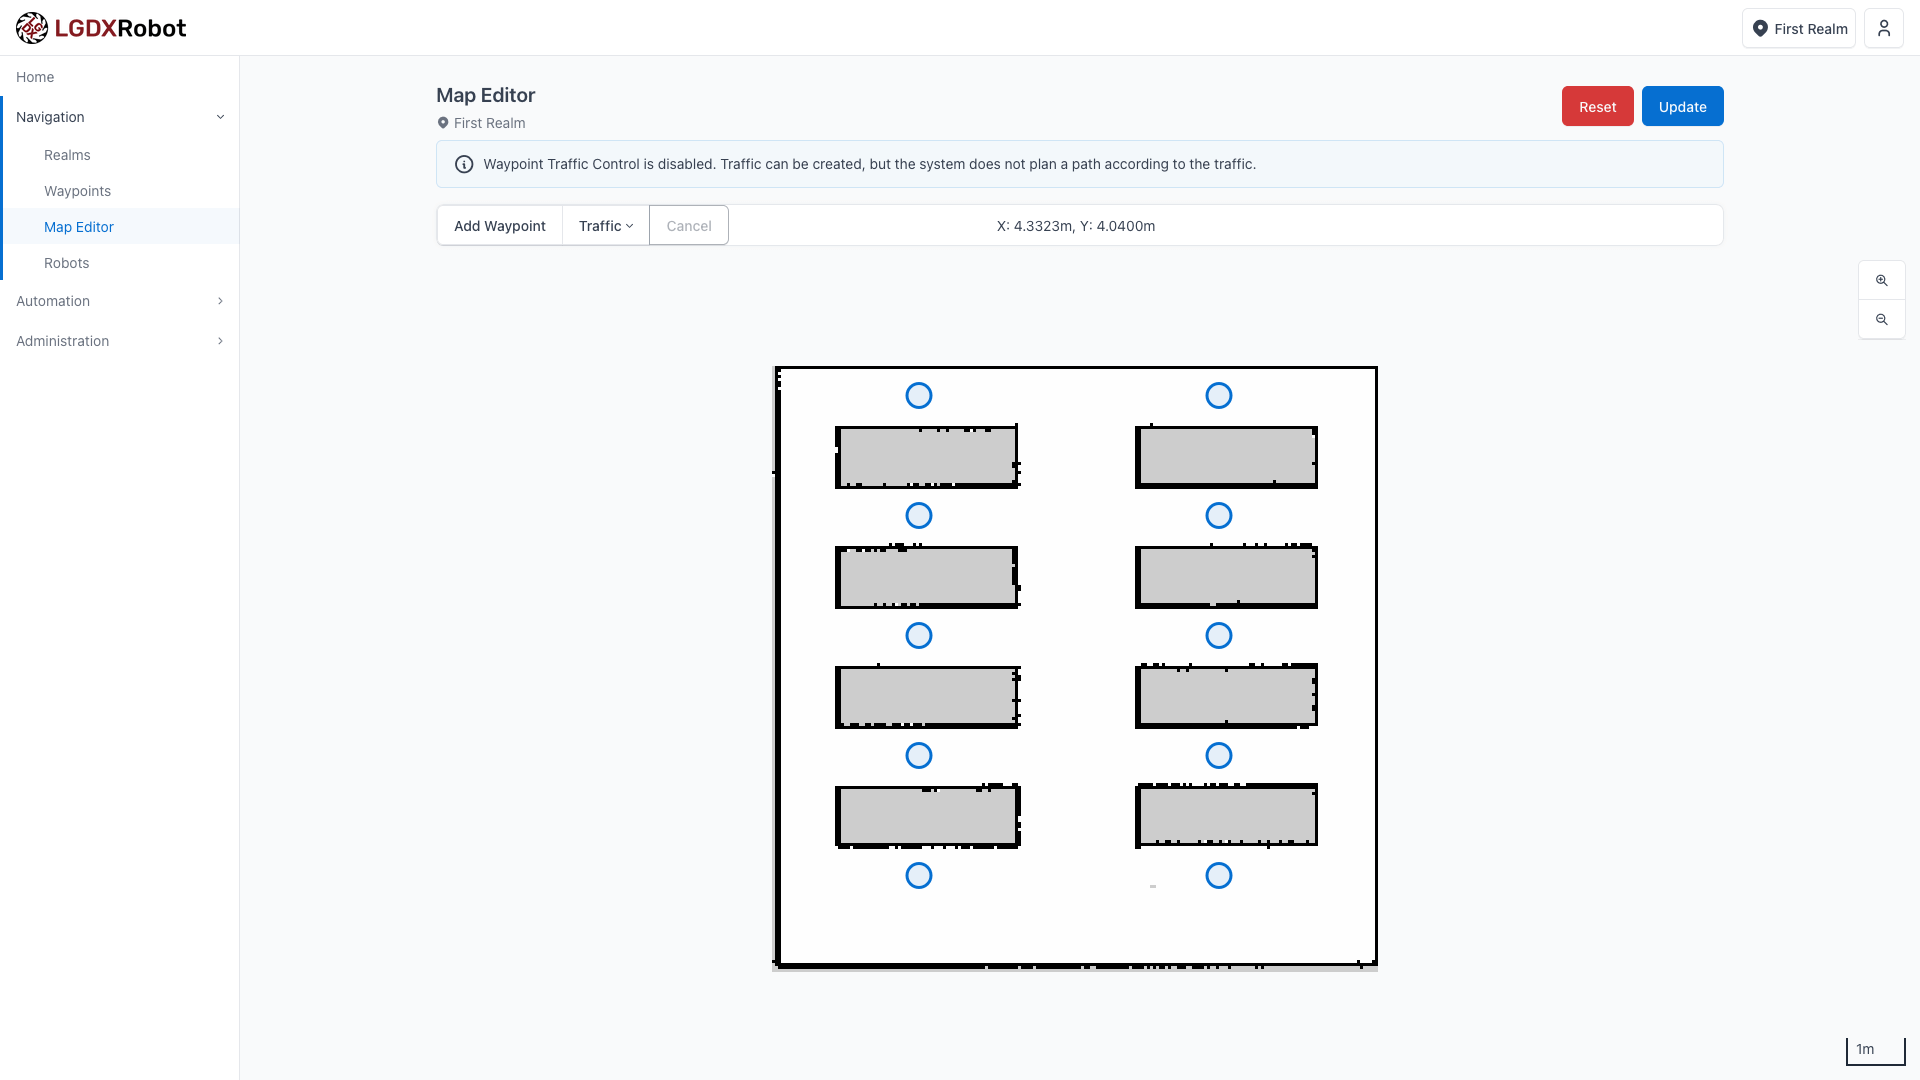
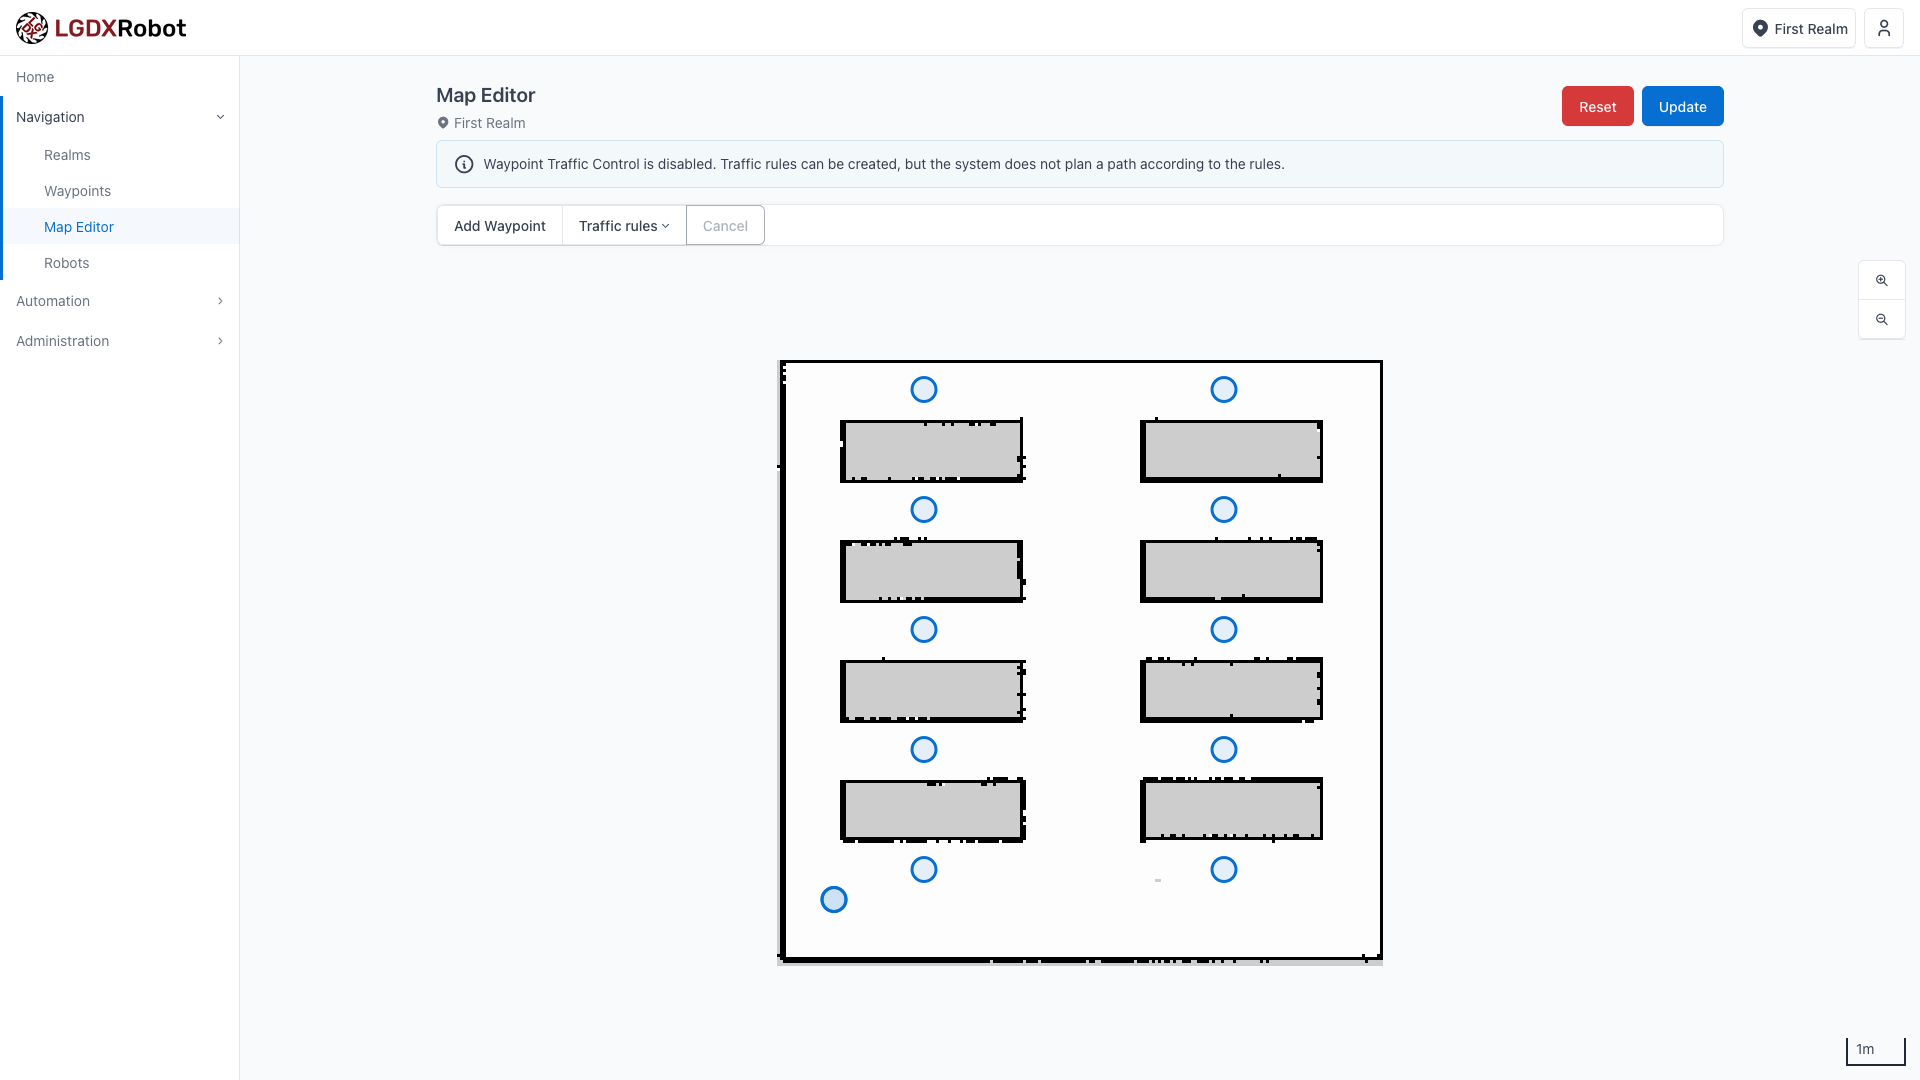
Map Editor

diff --git a/content/cloud/general/navigation-map-editor.md b/content/cloud/general/navigation-map-editor.md
@@ -40,8 +40,8 @@ Traffic rules require **Waypoint Traffic Control** to be enabled in the Realm se
 
 ## Creating a Traffic Rule
 
-* Click the **Traffic** dropdown at the top left.
-* Select **Single Way** or **Both Ways**.
+* Click the **Traffic rules** dropdown at the top left.
+* Select **Single-way traffic** or **Two-way traffic**.
 * Click the waypoint to set as the starting point.
 * Click the waypoint to set as the ending point.
 * A blue line will appear on the map.  
@@ -55,8 +55,8 @@ For single-way traffic, it is recommended to create a waypoint at each junction 
 
 ## Editing / Deleting a Traffic Rule
 
-* Click the **Traffic** dropdown at the top left.
-* Select **Delete Traffic**.
+* Click the **Traffic rules** dropdown at the top left.
+* Select **Delete Traffic rule**.
 * Click the traffic rule you want to delete.
 * The traffic rule will be removed from the map.
 * To edit a rule, create a new one with the updated direction.
